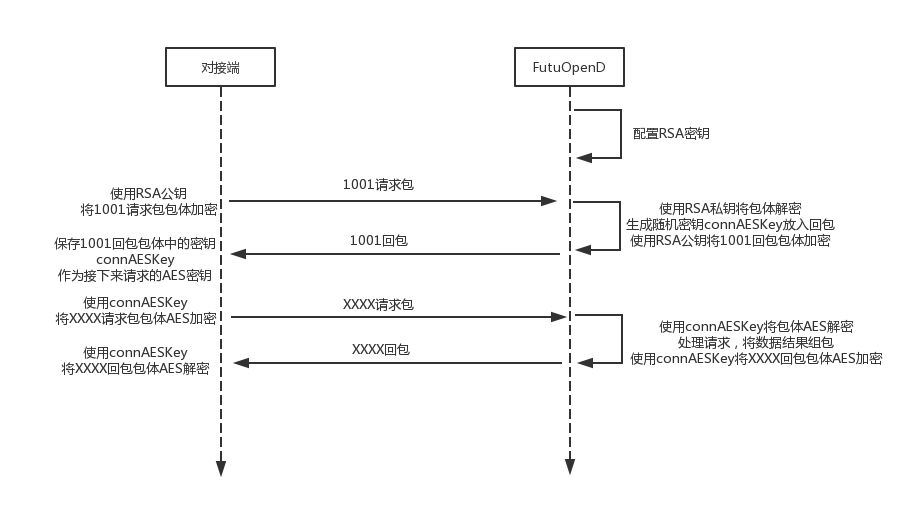
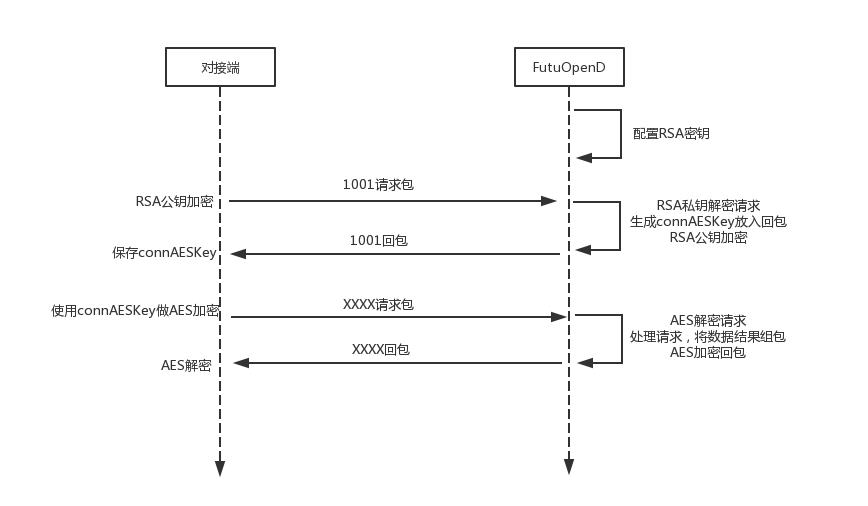
doc

diff --git a/docs/source/protocol/intro.rst b/docs/source/protocol/intro.rst
@@ -217,40 +217,16 @@ Json协议回应包体结构
     *  枚举值字段定义使用有符号整形，注释指明对应枚举，枚举一般定义于Common.proto，Qot_Common.proto，Trd_Common.proto文件中
 	
 ---------------------------------------------------
-	
-RSA私钥文件
-~~~~~~~~~~~~~~
 
-.. code-block:: bash
-
-		-----BEGIN RSA PRIVATE KEY-----
[12 lines of base64/hex data omitted]
-	sxTqXpBBCtTqcAotMlx4ZJQYL3f2PmI2Q/o0NUMt40w=
-	-----END RSA PRIVATE KEY-----
-	
-.. note::
-
-  *  RSA 密钥的填充方式为 PKCS1, 位数1024
-  *  密钥文件可通过第三方web平台自动生成， 请在baidu或google上搜索"RSA 在线生成"
-	
----------------------------------------------------
-	
-加密操作流程
+获取通信密钥流程
 ~~~~~~~~~~~~~~~
 
 .. image:: ../_static/encrypt.png
-				
+
+
+.. note::
+	* RSA密钥配置参考 `FutuOpenD配置 <https://futunnopen.github.io/futuquant/setup/FutuOpenDGuide.html#id5>`_ rsa_private_key配置项
+	
 ---------------------------------------------------
 
 AES加解密
@@ -270,6 +246,8 @@ AES加解密
 
   * mod_len 为0时，上述解密后的数据即为协议返回的body数据, 否则需截掉尾部(16 - mod_len)长度的用于填充对齐的数据
 
+  .. image:: ../_static/AES.png
+  
 ---------------------------------------------------
 
 

diff --git a/docs/source/setup/FutuOpenDGuide.rst b/docs/source/setup/FutuOpenDGuide.rst
@@ -61,13 +61,40 @@ FutuOpenD配置
   login_cert_file    证书文件绝对路径，除帐号密码外的另一种登录方式输入，若同时存在帐号密码登录配置项，只使用证书登录     是，可以使用帐号密码登录或命令行输入
   ================   ==================================================================================================   ===========================================
 
-  **备注：**
+.. note::
   密文是明文经过32位MD5加密后用16进制表示的数据，搜索在线MD5加密可找到生成密文的网站，例如：http://www.cmd5.com。
   
   32位MD5密文如下图红框区域（e10adc3949ba59abbe56e057f20f883e）：
   
   .. image:: ../_static/MD5.png
+ 
   
+RSA私钥文件
+~~~~~~~~~~~~~~
+
+.. code-block:: bash
+
+		-----BEGIN RSA PRIVATE KEY-----
[12 lines of base64/hex data omitted]
+	sxTqXpBBCtTqcAotMlx4ZJQYL3f2PmI2Q/o0NUMt40w=
+	-----END RSA PRIVATE KEY-----
+	
+.. note::
+
+  *  RSA 密钥的填充方式为 PKCS1, 位数1024
+  *  密钥文件可通过第三方web平台自动生成， 请在baidu或google上搜索"RSA 在线生成"
+  *  将私钥保存成文件，并在将文件路径配置在FutuOpenD.xml的rsa_private_key配置项
   
   
 FutuHistData配置
